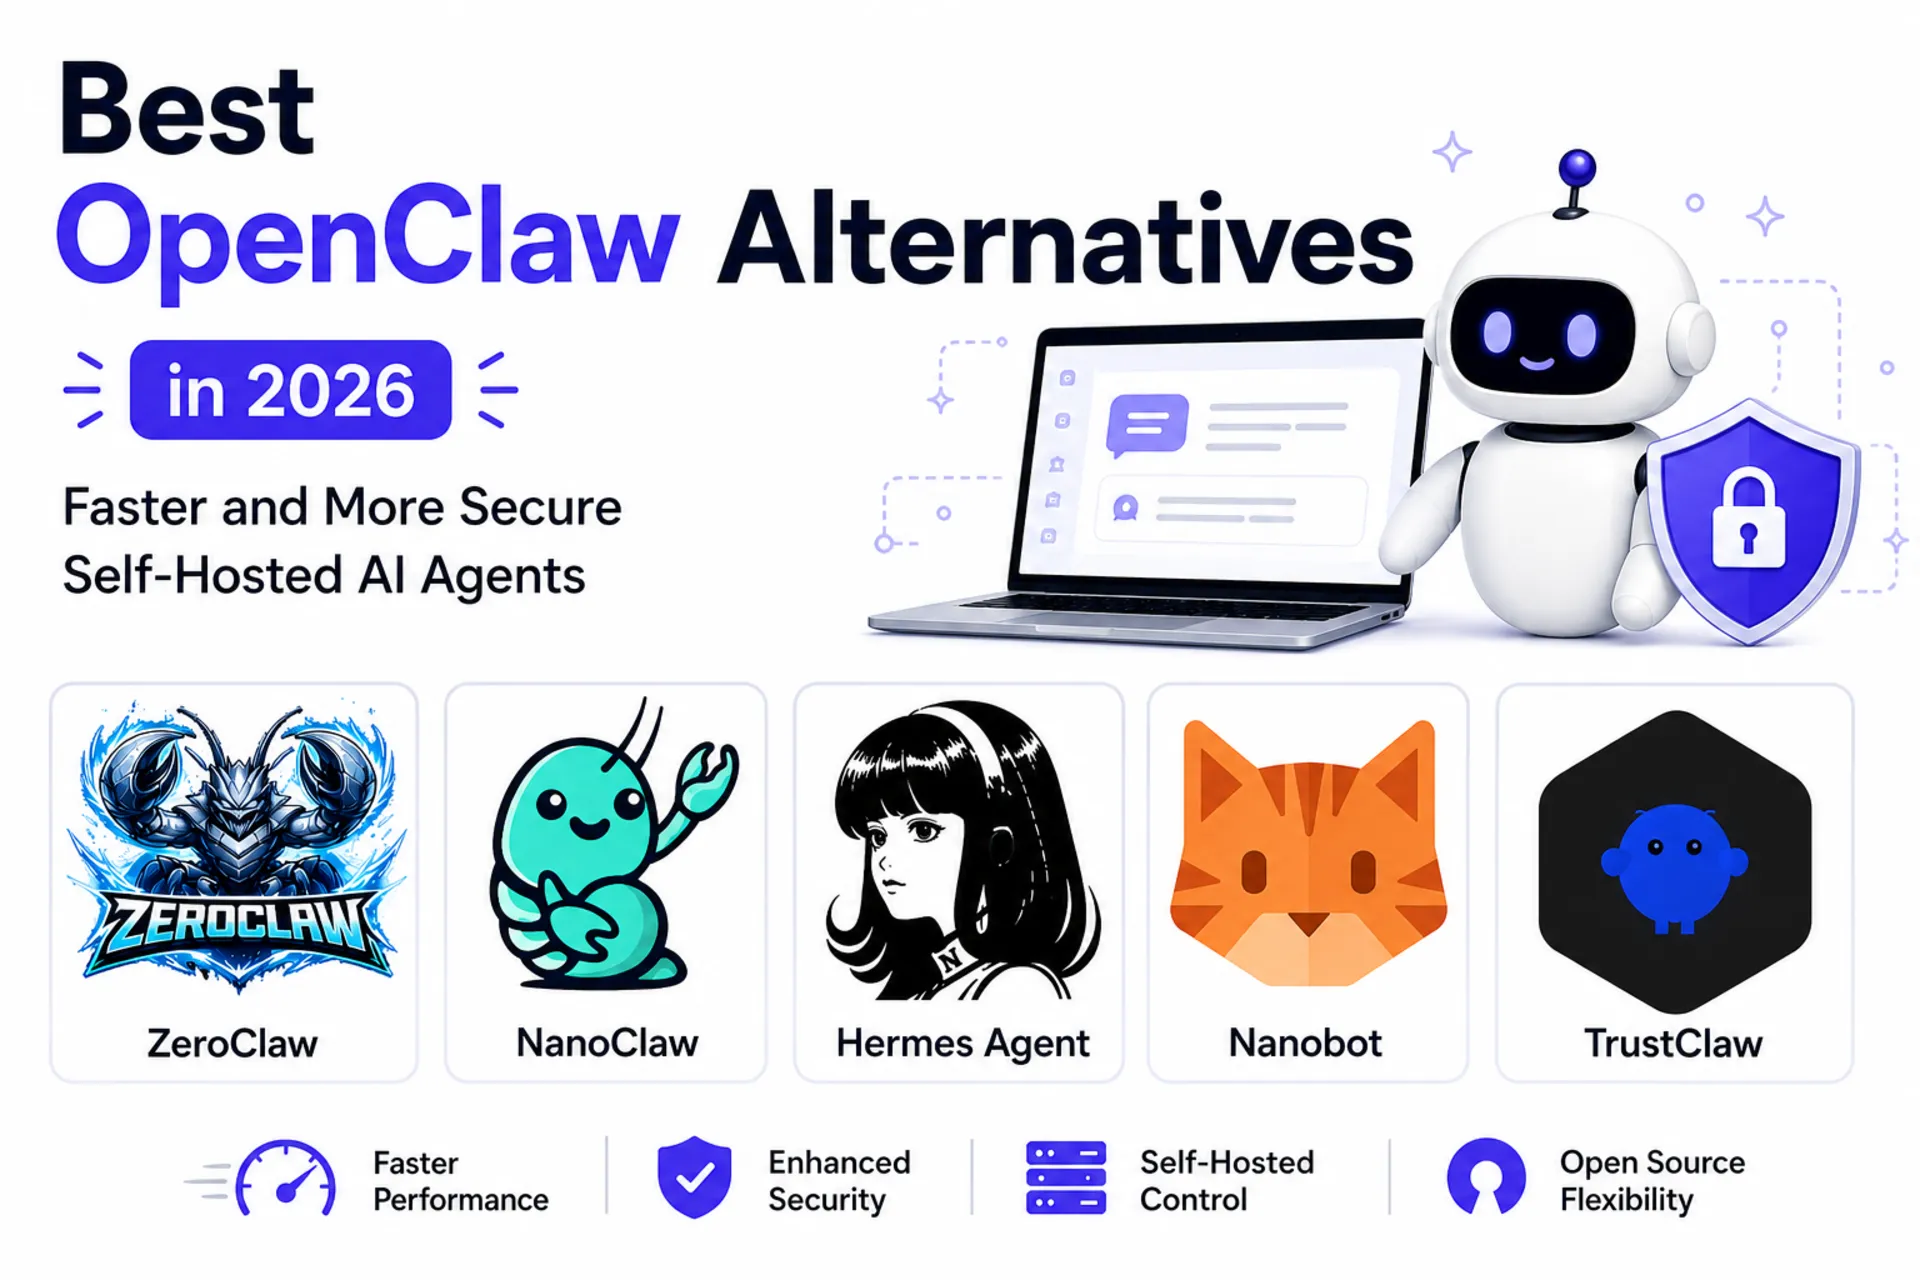
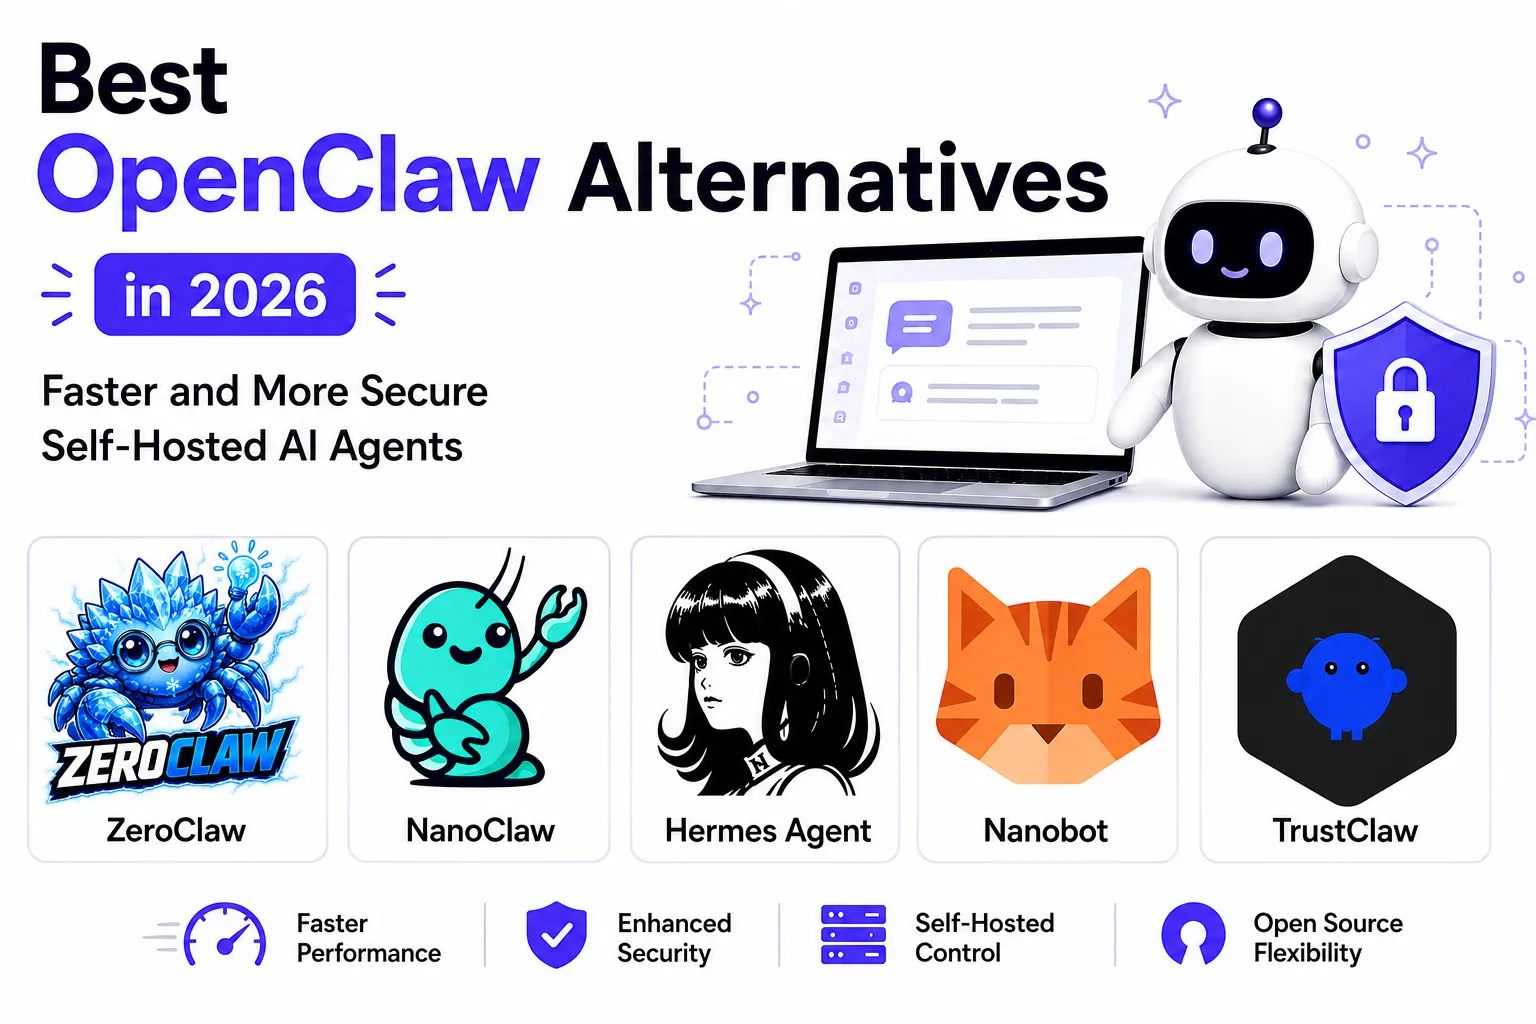
Update "Best OpenClaw Alternatives in 2026" blog post with new content and images

diff --git a/content/blog/best_openclaw_alternatives.md b/content/blog/best_openclaw_alternatives.md
@@ -2,6 +2,7 @@
 title: "Best OpenClaw Alternatives in 2026: Faster and More Secure Self-Hosted AI Agents"
 description: "Compare the best OpenClaw alternatives in 2026 - Nanobot, NanoClaw, ZeroClaw, Hermes Agent, and TrustClaw. See how each stacks up on performance, sandboxing, security, features, licensing, and self-hosting."
 date: 2026-07-25T11:00:00+05:30
+lastmod: 2026-07-27T11:00:00+05:30
 draft: false
 tags: ["OpenClaw", "OpenClaw alternatives", "ZeroClaw", "Hermes Agent", "Nanobot", "NanoClaw", "TrustClaw", "self-hosted AI", "AI agent security"]
 og_image: "images/best_openclaw_alternatives/best_openclaw_alternatives_banner.webp"
@@ -22,13 +23,13 @@ None of that means OpenClaw is a bad project. It popularized a genuinely useful 
 **Why look past OpenClaw:** <a href="https://github.com/jgamblin/OpenClawCVEs" target="_blank">543 CVEs</a> name OpenClaw as affected, including <a href="https://www.sentinelone.com/vulnerability-database/cve-2026-24763/" target="_blank">command injection (CVE-2026-24763)</a>, <a href="https://www.sentinelone.com/vulnerability-database/cve-2026-26322/" target="_blank">SSRF (CVE-2026-26322)</a>, <a href="https://github.com/advisories/GHSA-cv7m-c9jx-vg7q" target="_blank">path traversal (CVE-2026-26329)</a>, and a <a href="https://thehackernews.com/2026/02/openclaw-bug-enables-one-click-remote.html" target="_blank">one-click prompt-injection RCE (CVE-2026-30741)</a>. Its Node.js gateway also idles at 400-800MB of RAM and climbs past 1GB with browser automation running.
 
 **The five alternatives compared here:**
-1. <a href="https://github.com/zeroclaw-labs/zeroclaw" target="_blank">ZeroClaw</a> - single Rust binary, ~8.8MB, under 5MB RAM, sub-10ms startup. Best if hardware is the constraint.
-2. <a href="https://github.com/nanocoai/nanoclaw" target="_blank">NanoClaw</a> - TypeScript, every agent runs in its own Docker container with filesystem isolation. Best if sandboxing is the priority and you're fine with Claude-only.
-3. <a href="https://github.com/NousResearch/hermes-agent" target="_blank">Hermes Agent</a> - 220K+ stars, self-improving skill system, six sandboxed execution backends, ships a built-in `hermes claw migrate` command. Best for feature parity and community size.
+1. <a href="https://github.com/NousResearch/hermes-agent" target="_blank">Hermes Agent</a> - 222K+ stars, self-improving skill system, six sandboxed execution backends, ships a built-in `hermes claw migrate` command. Best for feature parity and community size.
+2. <a href="https://github.com/zeroclaw-labs/zeroclaw" target="_blank">ZeroClaw</a> - single Rust binary, ~8.8MB, under 5MB RAM, sub-10ms startup. Best if hardware is the constraint.
+3. <a href="https://github.com/nanocoai/nanoclaw" target="_blank">NanoClaw</a> - TypeScript, every agent runs in its own Docker container with filesystem isolation. Best if sandboxing is the priority and you're fine with Claude-only.
 4. <a href="https://github.com/HKUDS/nanobot" target="_blank">Nanobot</a> - ~4,000 lines of readable Python, 8+ chat integrations, MIT licensed. Best for a small codebase you can actually audit.
 5. <a href="https://github.com/ComposioHQ/trustclaw" target="_blank">TrustClaw</a> - OAuth-only credentials, every action runs in an ephemeral cloud sandbox that terminates after use. Best if you don't want long-lived credentials on disk at all.
 
-**Quick install (ZeroClaw example):** <br>`curl -fsSL https://raw.githubusercontent.com/zeroclaw-labs/zeroclaw/master/install.sh | bash`
+**Quick install (Hermes Agent example):** <br>`curl -fsSL https://hermes-agent.nousresearch.com/install.sh | bash`
 
 {{% /tldr %}}
 
@@ -46,25 +47,25 @@ None of that means OpenClaw is a bad project. It popularized a genuinely useful 
 </thead>
 <tbody>
 <tr style="background:#f9fbfd;">
+  <td style="border:1px solid #ddd;padding:0.5em;"><strong>{{< link href="https://github.com/NousResearch/hermes-agent" >}}Hermes Agent{{< /link >}}</strong></td>
+  <td style="border:1px solid #ddd;padding:0.5em;">Python</td>
+  <td style="border:1px solid #ddd;padding:0.5em;">222K+</td>
+  <td style="border:1px solid #ddd;padding:0.5em;">MIT</td>
+  <td style="border:1px solid #ddd;padding:0.5em;">Self-improving skills, 6 sandboxed backends</td>
+</tr>
+<tr>
   <td style="border:1px solid #ddd;padding:0.5em;"><strong>{{< link href="https://github.com/zeroclaw-labs/zeroclaw" >}}ZeroClaw{{< /link >}}</strong></td>
   <td style="border:1px solid #ddd;padding:0.5em;">Rust</td>
   <td style="border:1px solid #ddd;padding:0.5em;">32.4K+</td>
   <td style="border:1px solid #ddd;padding:0.5em;">MIT OR Apache-2.0</td>
   <td style="border:1px solid #ddd;padding:0.5em;">Single ~8.8MB binary, sub-10ms startup</td>
 </tr>
-<tr>
+<tr style="background:#f9fbfd;">
   <td style="border:1px solid #ddd;padding:0.5em;"><strong>{{< link href="https://github.com/nanocoai/nanoclaw" >}}NanoClaw{{< /link >}}</strong></td>
   <td style="border:1px solid #ddd;padding:0.5em;">TypeScript</td>
   <td style="border:1px solid #ddd;padding:0.5em;">30.4K+</td>
   <td style="border:1px solid #ddd;padding:0.5em;">MIT</td>
   <td style="border:1px solid #ddd;padding:0.5em;">Per-agent Docker container isolation</td>
-</tr>
-<tr style="background:#f9fbfd;">
-  <td style="border:1px solid #ddd;padding:0.5em;"><strong>{{< link href="https://github.com/NousResearch/hermes-agent" >}}Hermes Agent{{< /link >}}</strong></td>
-  <td style="border:1px solid #ddd;padding:0.5em;">Python</td>
-  <td style="border:1px solid #ddd;padding:0.5em;">220K+</td>
-  <td style="border:1px solid #ddd;padding:0.5em;">MIT</td>
-  <td style="border:1px solid #ddd;padding:0.5em;">Self-improving skills, 6 sandboxed backends</td>
 </tr>
 <tr>
   <td style="border:1px solid #ddd;padding:0.5em;"><strong>{{< link href="https://github.com/HKUDS/nanobot" >}}Nanobot{{< /link >}}</strong></td>
@@ -98,16 +99,33 @@ Two separate but related problems drive people away from OpenClaw: resource usag
 
 On resource usage, OpenClaw is a Node.js daemon (the "Gateway") that needs Node 22.14 or newer and, per its own Docker documentation, at least 2GB of RAM just to build the image. In practice a lean idle Gateway sits around 400-800MB, and that climbs past 1GB once you enable Playwright or Puppeteer for browser automation, load several skills at once, or hand it a task with large file attachments. For a laptop or desktop that's a rounding error. For a Raspberry Pi, a $5 VPS, or a machine you'd like to run several other things on, it's a real cost.
 
-On attack surface, the numbers are harder to wave away. OpenClaw's core premise, an agent with local file access, shell execution, browser control, and credentials for whatever SaaS accounts you connect, is also exactly the premise that makes a compromised agent so damaging. The independently-maintained {{< link href="https://github.com/jgamblin/OpenClawCVEs" >}}OpenClawCVEs tracker{{< /link >}} counts 543 total CVEs across the CVE List V5 registry that name OpenClaw as an affected product (the large majority filed by third-party researchers, not the project itself), and 51 CVEs tied to the project's own GitHub Security Advisories, breaking down as 1 critical, 90 high, 53 medium, and 13 low severity. Four are worth naming specifically, because they show the actual failure modes, not just a scary total:
-
-- **CVE-2026-24763** - a command injection in OpenClaw's Docker sandbox execution path, caused by unsafe handling of the `PATH` environment variable when building shell commands. Fixed in v2026.1.29.
-- **CVE-2026-26322** - an SSRF in the Gateway tool's `gatewayUrl` parameter (CVSS 7.6), letting an attacker make the OpenClaw host open outbound WebSocket connections to arbitrary targets, including cloud metadata endpoints. Fixed in v2026.2.14.
-- **CVE-2026-26329** - a path traversal in the browser tool's upload action, which passed attacker-supplied paths straight into Playwright's `setInputFiles()` without restricting them to a safe root, allowing arbitrary file reads off the Gateway host. Fixed in v2026.2.14.
-- **CVE-2026-30741** - a prompt-injection-driven remote code execution: a lack of integrity checking on upstream API responses let an attacker poison the request stream and get the model to emit terminal commands that ran via MCP tools without human confirmation.
+On attack surface, the numbers are harder to wave away. OpenClaw's core premise, an agent with local file access, shell execution, browser control, and credentials for whatever SaaS accounts you connect, is also exactly the premise that makes a compromised agent so damaging. The independently-maintained {{< link href="https://github.com/jgamblin/OpenClawCVEs" >}}OpenClawCVEs tracker{{< /link >}} counts 543 total CVEs across the CVE List V5 registry that name OpenClaw as an affected product (the large majority filed by third-party researchers, not the project itself), and 51 CVEs tied to the project's own GitHub Security Advisories, breaking down as 1 critical, 90 high, 53 medium, and 13 low severity. Four are worth naming specifically, because they show the actual failure modes, not just a scary total: **CVE-2026-24763** is a command injection in OpenClaw's Docker sandbox execution path, caused by unsafe handling of the `PATH` environment variable when building shell commands, fixed in v2026.1.29. **CVE-2026-26322** is an SSRF in the Gateway tool's `gatewayUrl` parameter (CVSS 7.6), letting an attacker make the OpenClaw host open outbound WebSocket connections to arbitrary targets, including cloud metadata endpoints, fixed in v2026.2.14. **CVE-2026-26329** is a path traversal in the browser tool's upload action, which passed attacker-supplied paths straight into Playwright's `setInputFiles()` without restricting them to a safe root, allowing arbitrary file reads off the Gateway host, also fixed in v2026.2.14. And **CVE-2026-30741** is a prompt-injection-driven remote code execution: a lack of integrity checking on upstream API responses let an attacker poison the request stream and get the model to emit terminal commands that ran via MCP tools without human confirmation.
 
 That last one is the pattern security researchers keep coming back to: OpenClaw reads untrusted content (an email, a web page, a link preview) as part of doing its job, and untrusted content can contain instructions. {{< link href="https://www.promptfoo.dev/blog/openclaw-at-work/" >}}Promptfoo{{< /link >}} and {{< link href="https://www.giskard.ai/knowledge/openclaw-security-vulnerabilities-include-data-leakage-and-prompt-injection-risks" >}}Giskard{{< /link >}} have both documented indirect prompt injection leading to data exfiltration, and {{< link href="https://www.microsoft.com/en-us/security/blog/2026/02/19/running-openclaw-safely-identity-isolation-runtime-risk/" >}}Microsoft's security team{{< /link >}} published guidance specifically on running it safely, which tells you how seriously enterprise security teams are taking this. None of this is unique to OpenClaw as a category of software (any agent with tool access and internet-facing input has the same fundamental problem), but OpenClaw's specific defaults, an exposed management port, plaintext credential storage options, and a skill registry (ClawHub) that will auto-update unless you turn that off, have made it an unusually easy target.
 
-## 1. ZeroClaw - Best for Constrained Hardware
+## 1. Hermes Agent - Best Community and Feature Parity
+
+{{< image "best_openclaw_alternatives/hermes_agent.webp" "Hermes Agent homepage by Nous Research" >}}
+
+{{< link href="https://github.com/NousResearch/hermes-agent" >}}Hermes Agent{{< /link >}} is built by Nous Research, and at over 222,000 GitHub stars it's actually bigger than OpenClaw was at any point we've covered it on this blog before. It bills itself as "the only agent with a built-in learning loop": it creates skills from experience, improves them during use, and builds a persistent model of who you are across sessions using {{< link href="https://github.com/plastic-labs/honcho" >}}Honcho{{< /link >}} for dialectic user modeling.
+
+**Performance.** Written in Python and installed via `uv`, so it doesn't compete with ZeroClaw on raw footprint. What it does offer is elastic compute: six terminal backends (local, Docker, SSH, Singularity, Modal, and Daytona), where Daytona and Modal give you serverless persistence, meaning the agent's environment hibernates when idle and costs close to nothing between sessions. The project's own pitch is that it runs fine on a $5 VPS or scales up to a GPU cluster.
+
+**Security and sandbox.** The multiple terminal backends double as sandboxing options: you can run the agent's shell access inside an isolated Docker container, over SSH to a separate box, or in an ephemeral Singularity/Modal/Daytona environment instead of directly on your host. It also ships command approval and DM pairing, similar in spirit to OpenClaw's own pairing model, plus documented container isolation guidance.
+
+**Features.** A genuinely full terminal UI (multiline editing, slash-command autocomplete, streaming tool output), coverage of Telegram, Discord, Slack, WhatsApp, Signal, and CLI from one gateway process, a built-in cron scheduler for unattended reports and backups, and parallel subagent delegation with Python RPC for collapsing multi-step pipelines. The detail that matters most if you're actually coming from OpenClaw: Hermes ships a `hermes claw migrate` command specifically to import an existing OpenClaw setup.
+
+**License.** MIT.
+
+**Self-host.**
+
+```bash
+curl -fsSL https://hermes-agent.nousresearch.com/install.sh | bash
+```
+
+(There's also a native Windows PowerShell one-liner if you don't want WSL2.) After install, `hermes` drops you straight into an interactive chat, and `hermes gateway` starts the messaging bridge.
+
+## 2. ZeroClaw - Best for Constrained Hardware
 
 {{< image "best_openclaw_alternatives/zeroclaw.webp" "ZeroClaw homepage, a Rust-based personal AI agent" >}}
 
@@ -129,7 +147,7 @@ curl -fsSL https://raw.githubusercontent.com/zeroclaw-labs/zeroclaw/master/insta
 
 Then `zeroclaw quickstart` walks you through picking a provider and writing a working config. For the full Discord bot setup, see our {{< link href="/blog/zeroclaw_lightweight_openclaw_alternative/" >}}dedicated ZeroClaw guide{{< /link >}}.
 
-## 2. NanoClaw - Best for Container-Level Isolation
+## 3. NanoClaw - Best for Container-Level Isolation
 
 {{< image "best_openclaw_alternatives/nanoclaw.webp" "NanoClaw homepage, a container-isolated personal AI agent" >}}
 
@@ -152,28 +170,6 @@ bash nanoclaw.sh
 ```
 
 The setup script installs Node, pnpm, and Docker if they're missing, registers your credentials, builds the containers, and wires up whichever messaging channels you pick.
-
-## 3. Hermes Agent - Best Community and Feature Parity
-
-{{< image "best_openclaw_alternatives/hermes_agent.webp" "Hermes Agent homepage by Nous Research" >}}
-
-{{< link href="https://github.com/NousResearch/hermes-agent" >}}Hermes Agent{{< /link >}} is built by Nous Research, and at over 220,000 GitHub stars it's actually bigger than OpenClaw was at any point we've covered it on this blog before. It bills itself as "the only agent with a built-in learning loop": it creates skills from experience, improves them during use, and builds a persistent model of who you are across sessions using {{< link href="https://github.com/plastic-labs/honcho" >}}Honcho{{< /link >}} for dialectic user modeling.
-
-**Performance.** Written in Python and installed via `uv`, so it doesn't compete with ZeroClaw on raw footprint. What it does offer is elastic compute: six terminal backends (local, Docker, SSH, Singularity, Modal, and Daytona), where Daytona and Modal give you serverless persistence, meaning the agent's environment hibernates when idle and costs close to nothing between sessions. The project's own pitch is that it runs fine on a $5 VPS or scales up to a GPU cluster.
-
-**Security and sandbox.** The multiple terminal backends double as sandboxing options: you can run the agent's shell access inside an isolated Docker container, over SSH to a separate box, or in an ephemeral Singularity/Modal/Daytona environment instead of directly on your host. It also ships command approval and DM pairing, similar in spirit to OpenClaw's own pairing model, plus documented container isolation guidance.
-
-**Features.** A genuinely full terminal UI (multiline editing, slash-command autocomplete, streaming tool output), coverage of Telegram, Discord, Slack, WhatsApp, Signal, and CLI from one gateway process, a built-in cron scheduler for unattended reports and backups, and parallel subagent delegation with Python RPC for collapsing multi-step pipelines. The detail that matters most if you're actually coming from OpenClaw: Hermes ships a `hermes claw migrate` command specifically to import an existing OpenClaw setup.
-
-**License.** MIT.
-
-**Self-host.**
-
-```bash
-curl -fsSL https://hermes-agent.nousresearch.com/install.sh | bash
-```
-
-(There's also a native Windows PowerShell one-liner if you don't want WSL2.) After install, `hermes` drops you straight into an interactive chat, and `hermes gateway` starts the messaging bridge.
 
 ## 4. Nanobot - Best Small, Auditable Codebase
 
@@ -240,22 +236,22 @@ The word "sandbox" means something different in each of these projects, which ma
   <td style="border:1px solid #ddd;padding:0.5em;">DM pairing required; group sessions sandboxed, main session is not</td>
 </tr>
 <tr>
+  <td style="border:1px solid #ddd;padding:0.5em;">Hermes Agent</td>
+  <td style="border:1px solid #ddd;padding:0.5em;">Selectable: local, Docker, SSH, Singularity, Modal, or Daytona</td>
+  <td style="border:1px solid #ddd;padding:0.5em;">Local config; isolation level depends on chosen backend</td>
+  <td style="border:1px solid #ddd;padding:0.5em;">Command approval and DM pairing</td>
+</tr>
+<tr style="background:#f9fbfd;">
   <td style="border:1px solid #ddd;padding:0.5em;">ZeroClaw</td>
   <td style="border:1px solid #ddd;padding:0.5em;">OS-native: Landlock/Bubblewrap (Linux), Seatbelt (macOS), Docker (optional)</td>
   <td style="border:1px solid #ddd;padding:0.5em;">Local config, with cryptographic tool receipts per action</td>
   <td style="border:1px solid #ddd;padding:0.5em;">Supervised (approve medium-risk, block high-risk) by default; YOLO mode opt-in</td>
 </tr>
-<tr style="background:#f9fbfd;">
+<tr>
   <td style="border:1px solid #ddd;padding:0.5em;">NanoClaw</td>
   <td style="border:1px solid #ddd;padding:0.5em;">Per-agent Docker container, explicitly mounted volumes only</td>
   <td style="border:1px solid #ddd;padding:0.5em;">Vault-based injection at request time, per-agent policy and rate limits</td>
   <td style="border:1px solid #ddd;padding:0.5em;">Container boundary is the permission model, not an in-app approval flow</td>
-</tr>
-<tr>
-  <td style="border:1px solid #ddd;padding:0.5em;">Hermes Agent</td>
-  <td style="border:1px solid #ddd;padding:0.5em;">Selectable: local, Docker, SSH, Singularity, Modal, or Daytona</td>
-  <td style="border:1px solid #ddd;padding:0.5em;">Local config; isolation level depends on chosen backend</td>
-  <td style="border:1px solid #ddd;padding:0.5em;">Command approval and DM pairing</td>
 </tr>
 <tr style="background:#f9fbfd;">
   <td style="border:1px solid #ddd;padding:0.5em;">Nanobot</td>
@@ -334,14 +330,14 @@ None of these impose copyleft obligations or field-of-use restrictions, so licen
 All five install in one command or a short script. If you're migrating an existing OpenClaw setup, Hermes Agent is the only one with a built-in migration path (`hermes claw migrate`); for the others, you're starting configuration from scratch, though your LLM API keys carry over regardless of which agent you pick.
 
 ```bash
+# Hermes Agent
+curl -fsSL https://hermes-agent.nousresearch.com/install.sh | bash
+
 # ZeroClaw
 curl -fsSL https://raw.githubusercontent.com/zeroclaw-labs/zeroclaw/master/install.sh | bash
 
 # NanoClaw
 git clone https://github.com/nanocoai/nanoclaw.git nanoclaw-v2 && cd nanoclaw-v2 && bash nanoclaw.sh
-
-# Hermes Agent
-curl -fsSL https://hermes-agent.nousresearch.com/install.sh | bash
 
 # Nanobot
 curl -fsSL https://raw.githubusercontent.com/HKUDS/nanobot/main/scripts/install.sh | sh
@@ -365,4 +361,4 @@ Swap `3000` for whichever port your chosen agent's dashboard runs on, and you ge
 
 ## Conclusion
 
-OpenClaw's growth was real, but its 2026 security track record and heavy Node.js footprint are legitimate reasons to look elsewhere. There's no single best replacement: pick ZeroClaw for raw efficiency, NanoClaw or TrustClaw for the strongest isolation, Hermes Agent for the biggest community and closest feature parity (with a built-in `hermes claw migrate` command), or Nanobot for a codebase small enough to read end to end. Whichever you choose, keep the gateway off the open internet and require pairing or an allowlist for DMs.
+OpenClaw's growth was real, but its 2026 security track record and heavy Node.js footprint are legitimate reasons to look elsewhere. There's no single best replacement: pick Hermes Agent for the biggest community and closest feature parity (with a built-in `hermes claw migrate` command), ZeroClaw for raw efficiency, NanoClaw or TrustClaw for the strongest isolation, or Nanobot for a codebase small enough to read end to end. Whichever you choose, keep the gateway off the open internet and require pairing or an allowlist for DMs.
